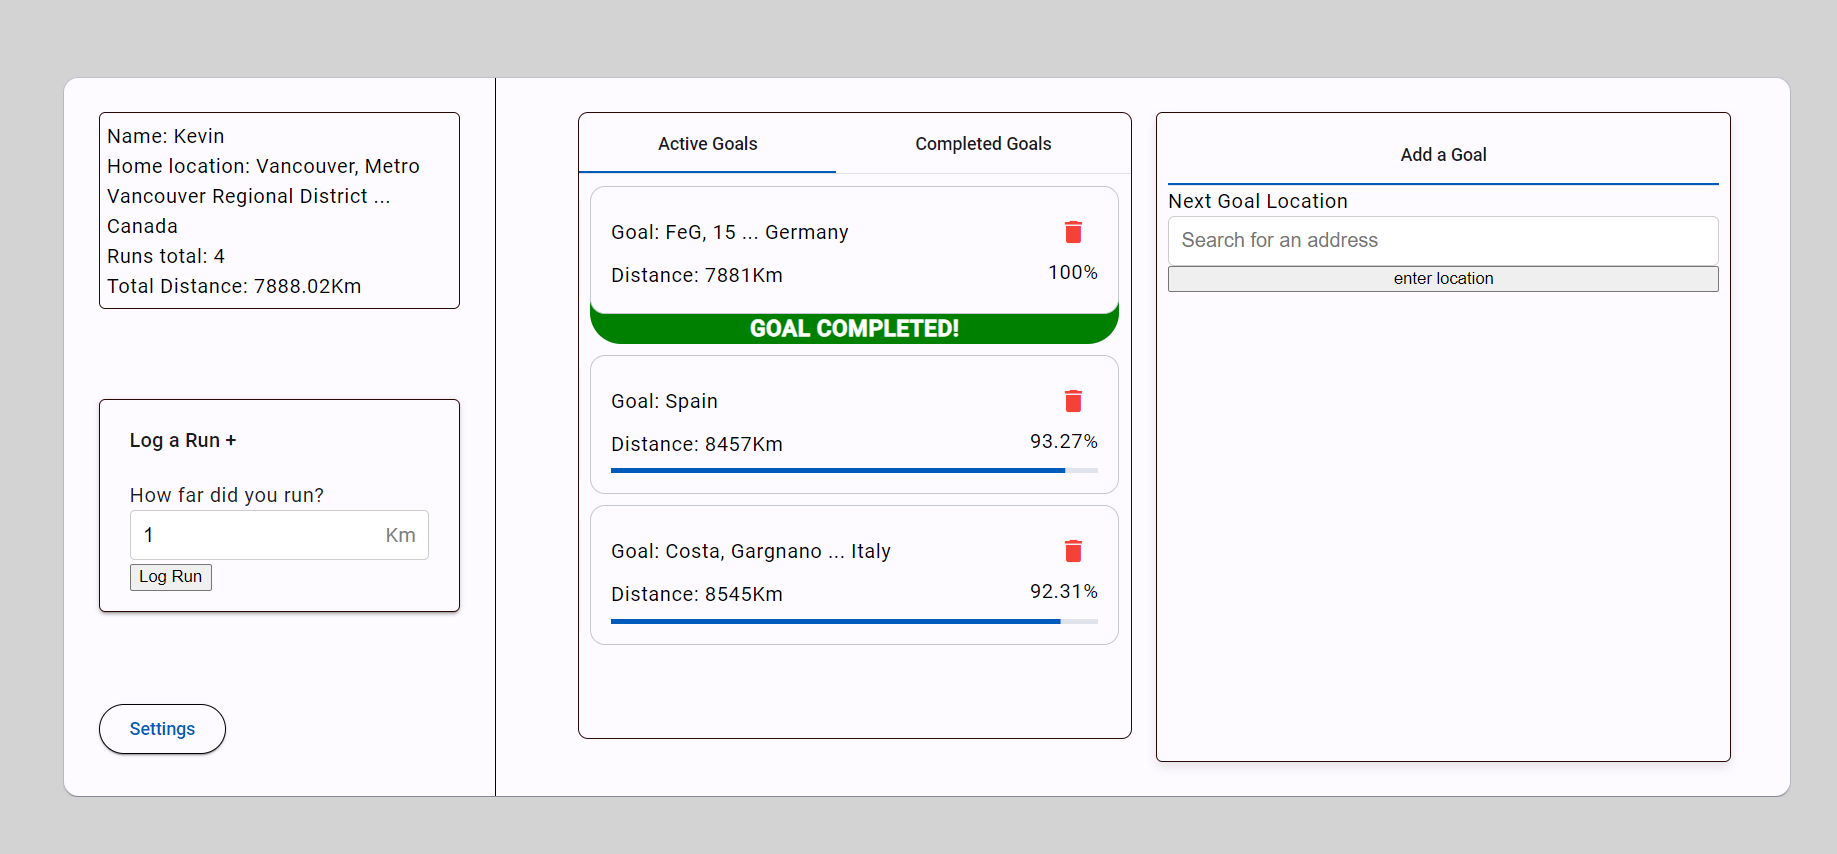
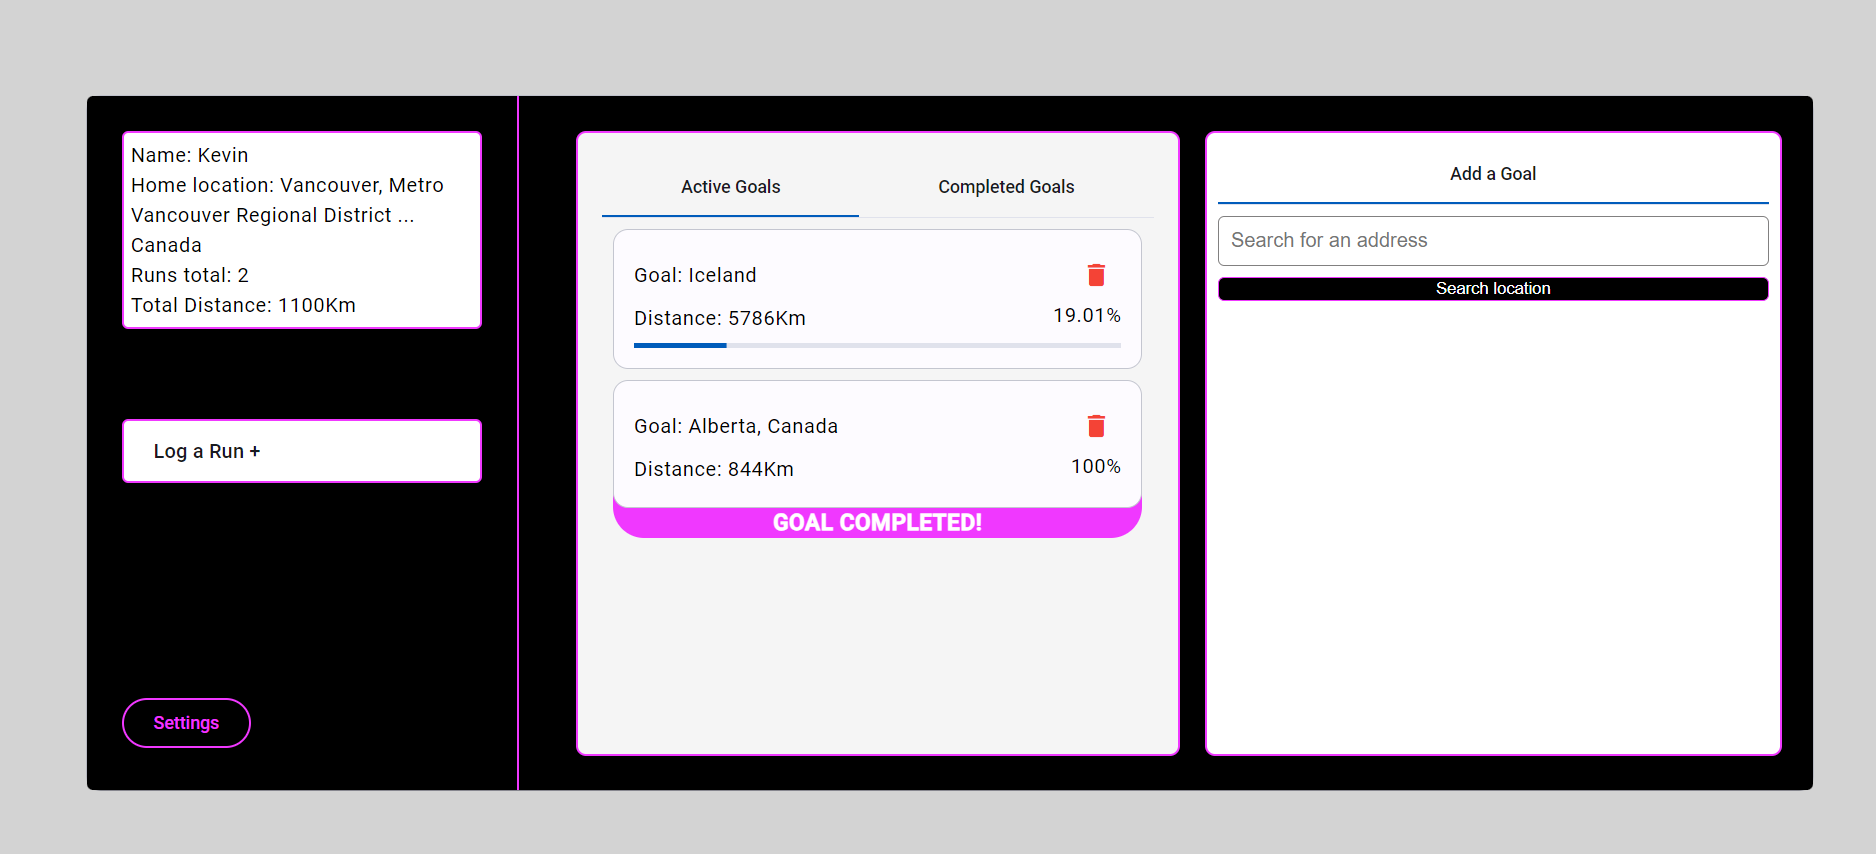
Updated ReadMe.md images to match current application lay-out

diff --git a/src/app/app.component.less b/src/app/app.component.less
@@ -89,6 +89,8 @@
     height: 500px;
     background-color: black;
     color: white;
+    border-top-right-radius: 5px;
+    border-bottom-right-radius: 5px;
   }
   
   .component {
@@ -112,7 +114,8 @@
   }
 
   .goal-div {
-    background-color: green;
+    background-color: #F038FF;
+    // color: ;
     margin: 2%;
     border-radius: 25px;
    }
@@ -146,7 +149,7 @@
      text-align: center;
      font-size: large;
      font-weight: bold;
-     color:white; 
+    //  color:white; 
      cursor: pointer;
    }
   
